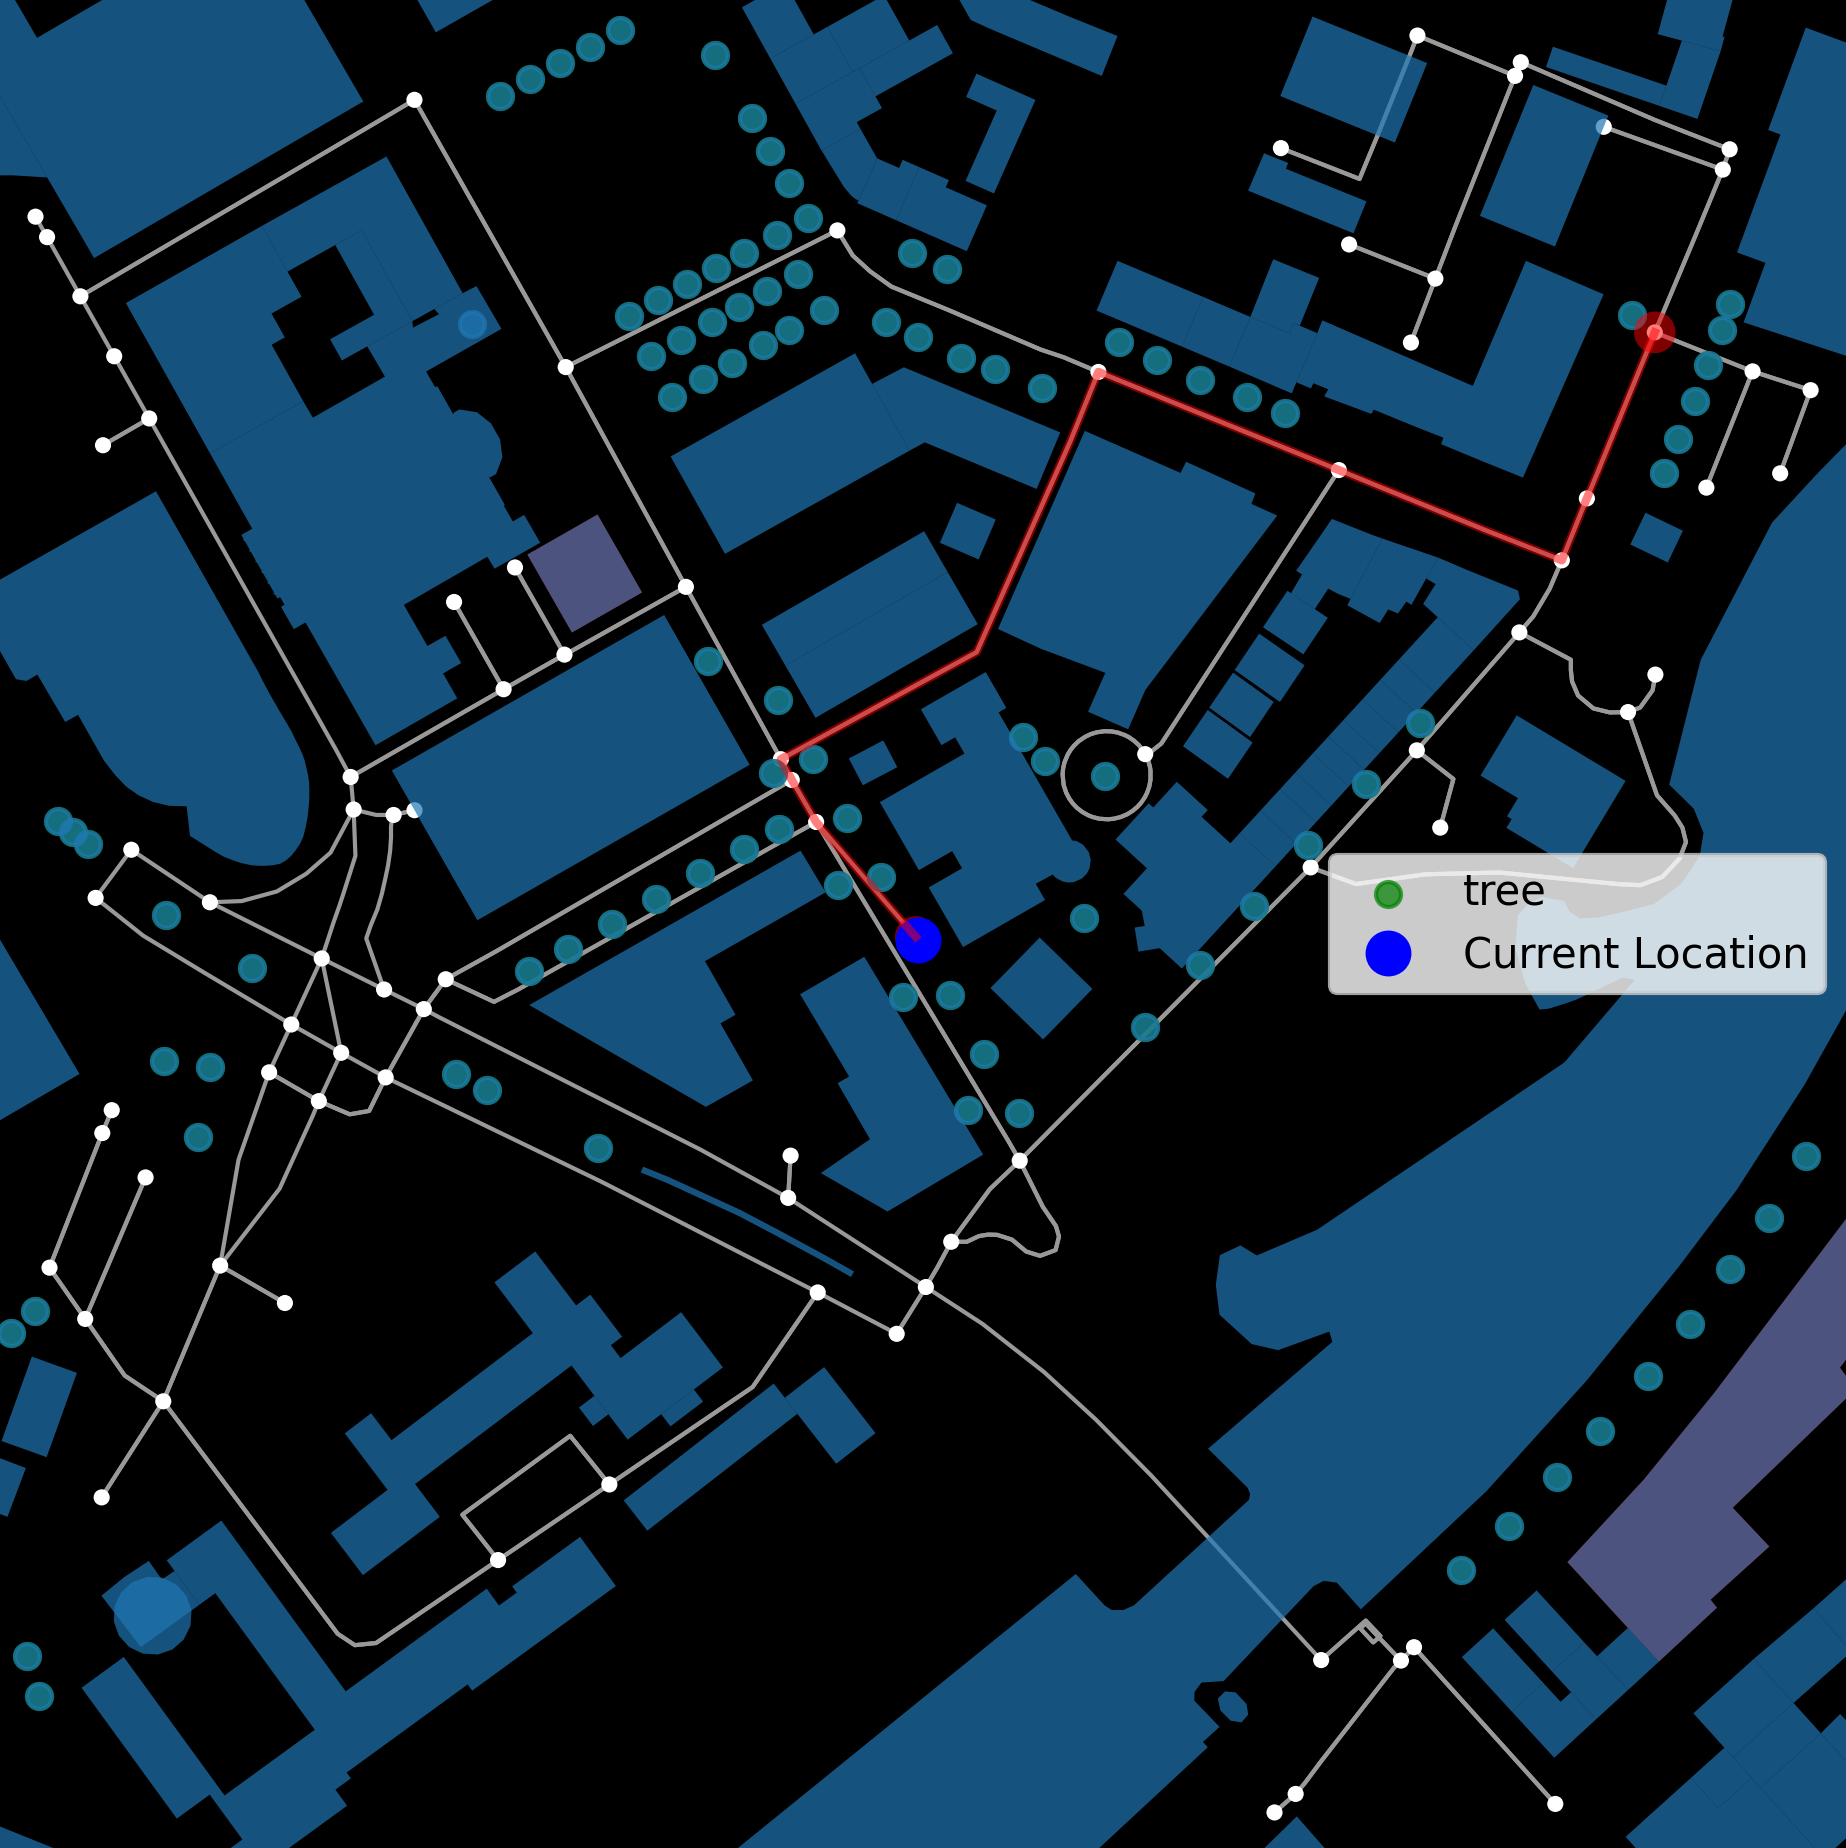
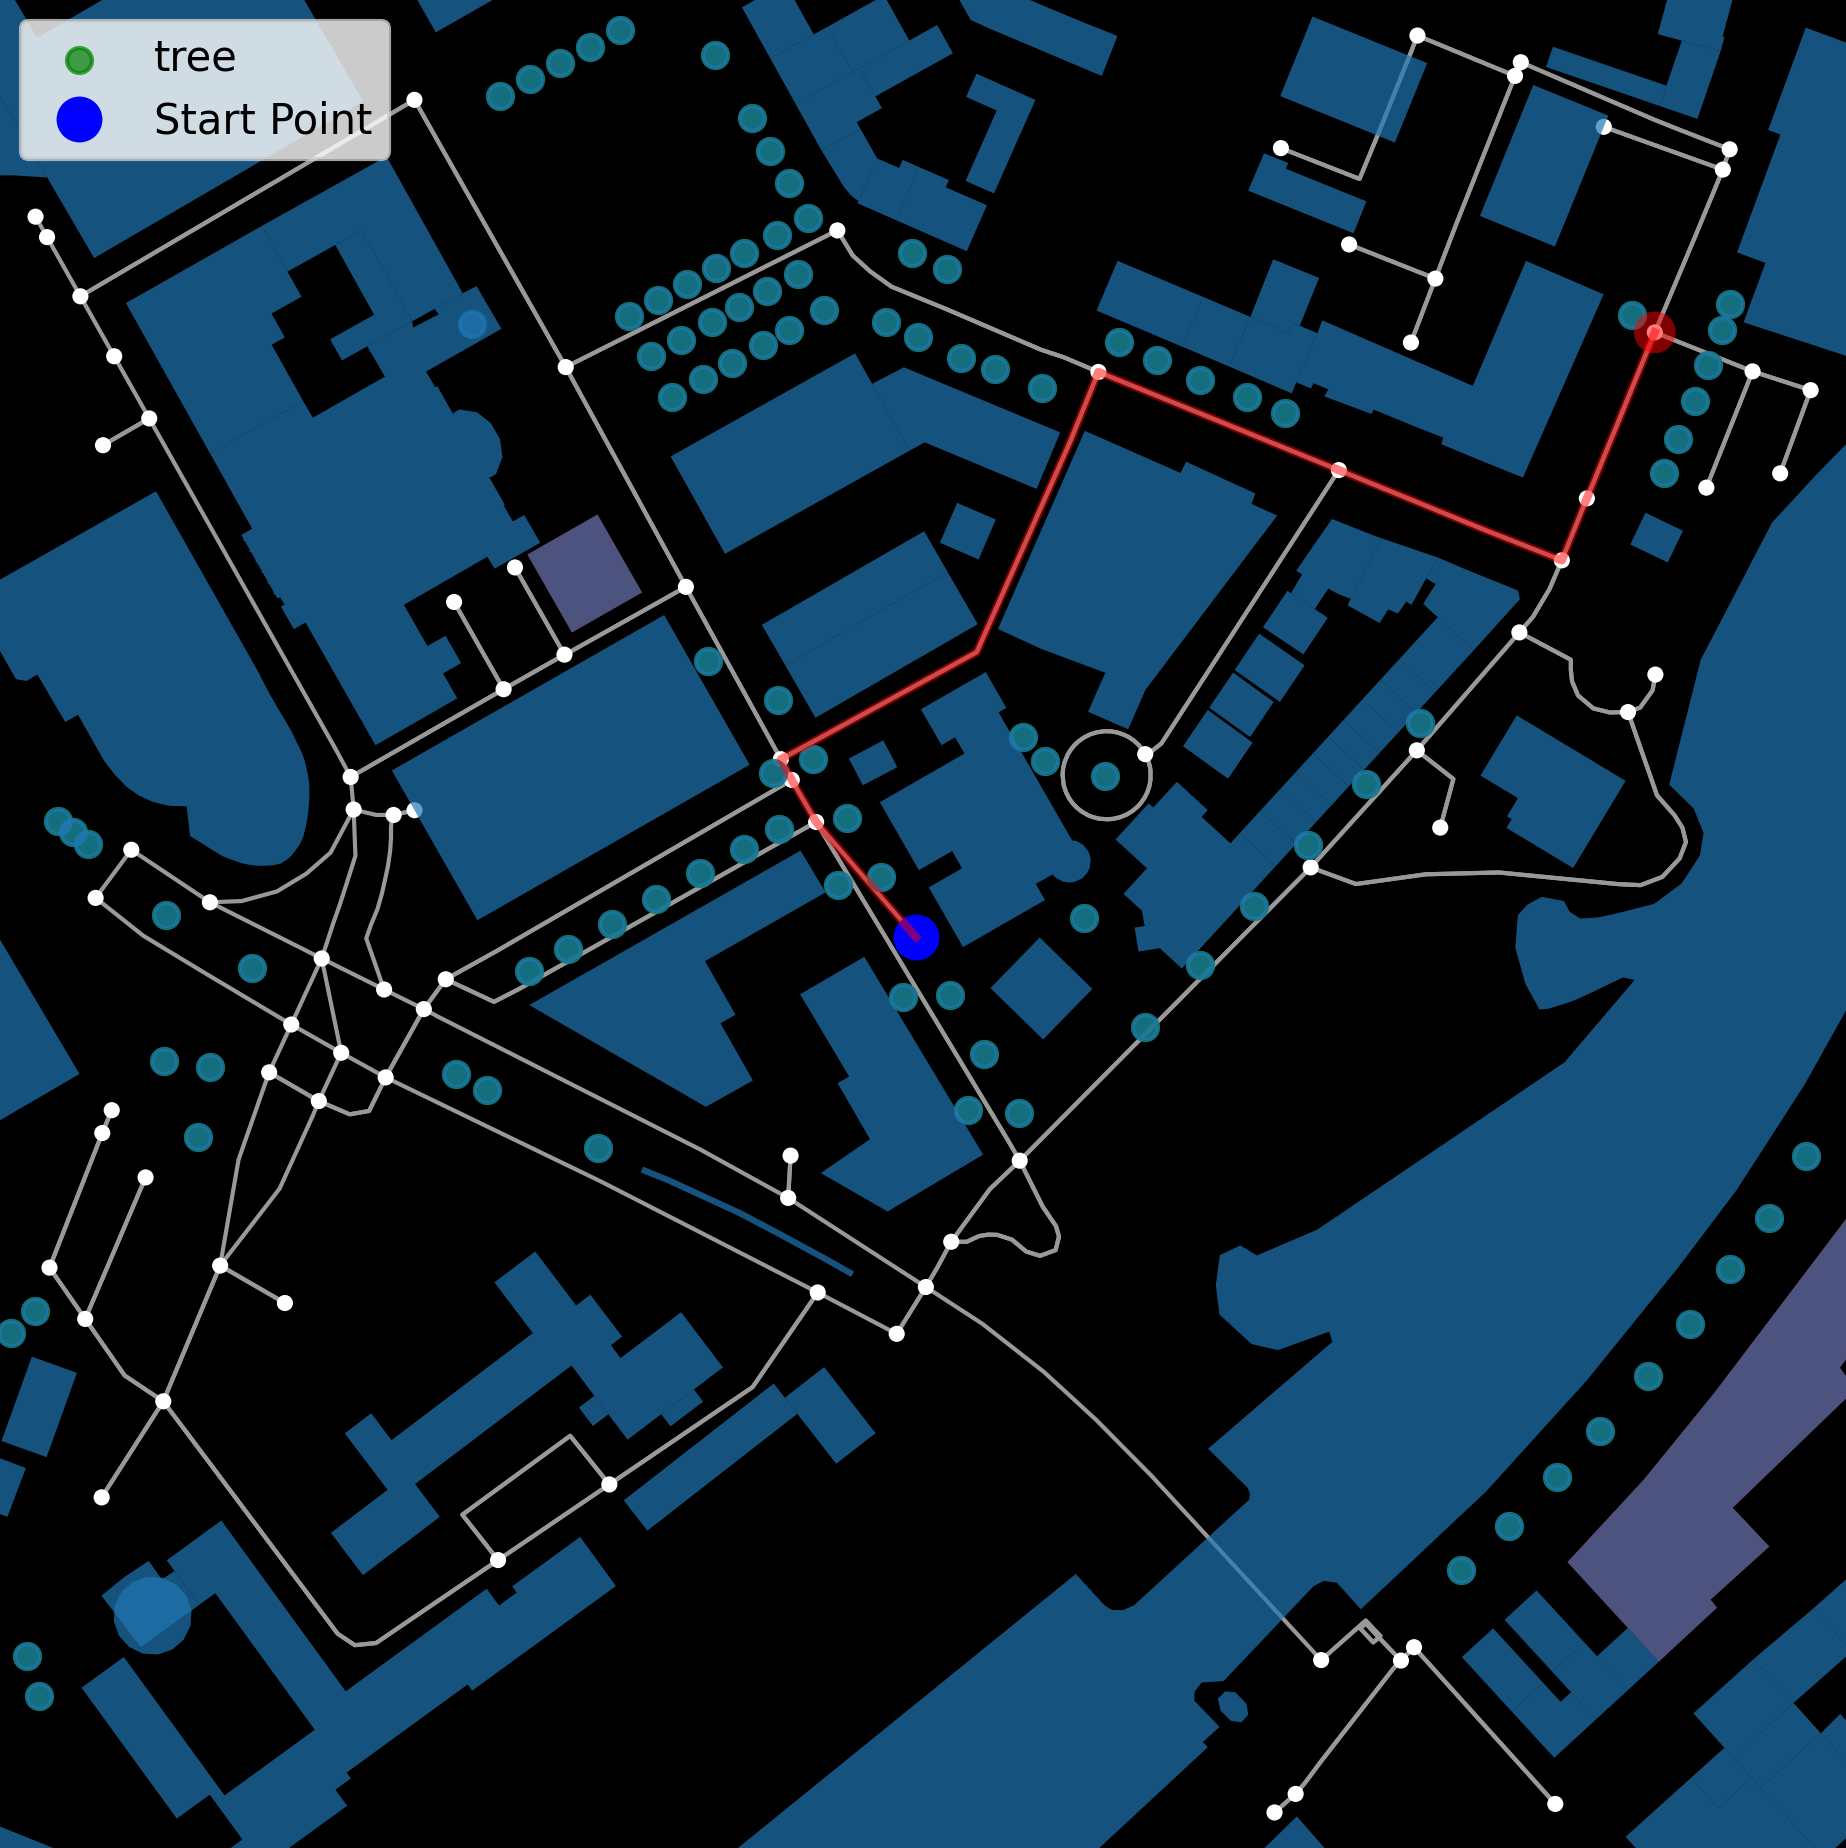
Update

Changed region(s): [[0.7102, 0.4627, 1.0, 0.5552], [0.0, 0.0, 0.2161, 0.0925]]

diff --git a/Layers/L1_App/navigation/create_map_network.py b/Layers/L1_App/navigation/create_map_network.py
@@ -242,13 +242,13 @@ class MapHandler():
         general_footprints = footprints[(footprints['tourism'].isnull()) & (footprints['natural'].isnull())]
         footprints.plot(ax=ax, alpha=0.7)
         # Highlight your location node
-        #your_location_node = self._graph.nodes[69]
-        #self.start_point, = ax.plot(your_location_node['x'], your_location_node['y'], 'bo', markersize=10, label='Start Point')
+        your_location_node = self._graph.nodes[69]
+        self.start_point, = ax.plot(your_location_node['x'], your_location_node['y'], 'bo', markersize=10, label='Start Point')
         #ax.scatter(your_location_node["x"], your_location_node["y"], c="cyan", s=50, zorder=5, label="Your Location")
         
         #plot gps location marker
-        self.lat, self.lon, self.height = self.gps.get_data()
-        self.current, = ax.plot(self.lon, self.lat, 'bo', markersize=10, label='Current Location')
+        #self.lat, self.lon, self.height = self.gps.get_data()
+        #self.current, = ax.plot(self.lon, self.lat, 'bo', markersize=10, label='Current Location')
         
         ax.legend()
         #ox.plot_graph_route(self._graph, self.find_shortest_path_between_two_points(), route_color='r', route_linewidth=2, ax=ax, save=True,filepath=f'{os.path.abspath(os.path.join(os.path.dirname(__file__),"../../"))}/L2_Data/map.png')
@@ -268,12 +268,13 @@ class MapHandler():
                                             ax=ax,save=True,filepath=path_png, node_size=0, show=False, close=False)
         
         # Animate the movement along the path
-        #self._animation = FuncAnimation(fig, self.manoeuvre.manoeuvre, frames=len(self.shortest_path)*2, interval=1500, repeat=True)
+        self._animation = FuncAnimation(fig, self.manoeuvre.manoeuvre, frames=len(self.shortest_path)*2, interval=1500, repeat=True)
         
         # Animate the current gps location
-        self._animation = FuncAnimation(fig, gps_update, frames=100, interval=200, repeat=False) 
+        #self._animation = FuncAnimation(fig, gps_update, frames=100, interval=200, repeat=False) 
         #self.manoeuvre.plot_route()
-        
+        #self.show_plot()
+        #self.save_animation()
         # Create and start the threads for saving the animation and showing the plot
         save_thread = threading.Thread(target=self.save_animation)
         show_thread = threading.Thread(target=self.show_plot)
@@ -329,7 +330,7 @@ class MapHandler():
         try:
             path_gif = f'{os.path.abspath(os.path.join(os.path.dirname(__file__),"../../../"))}/path_animation.gif'
             writer = PillowWriter(fps=30) 
-            self._animation.save(path_gif, writer=writer)
+            self._animation.save(path_gif, writer='pillow')
         except Exception as e:
             print(f"An error occurred: {e}")
             return None

diff --git a/Layers/L1_App/navigation/manoeuvre.py b/Layers/L1_App/navigation/manoeuvre.py
@@ -141,10 +141,11 @@ class Target_manoeuvre():
             x_current, y_current = self._graph.nodes[current_node]['x'], self._graph.nodes[current_node]['y']
             x_next, y_next = self._graph.nodes[next_node]['x'], self._graph.nodes[next_node]['y']
             
-            #target_position = self.get_target_position()
-            distance_to_target = round(self.distance(x_current, y_current, x_next, y_next))
-            print("Distance to target:", distance_to_target)
+            
             while True:
+                #target_position = self.get_target_position()
+                distance_to_target = round(self.distance(x_current, y_current, x_next, y_next))
+                print("Distance to target:", distance_to_target)
                 if distance_to_target <= 0.1:
                     print("Reached target position")
                     break
@@ -191,6 +192,7 @@ class Target_manoeuvre():
                     json.dump(data_JSON, write_file) """
                 self.start_point.set_data(x_current, y_current)
                 return self.start_point,
+    
     def manoeuvre_plot(self):
         # Initialize the PID controller parameters
         Kp = 0.5

diff --git a/my_location.py b/my_location.py
@@ -4,13 +4,13 @@ from Layers.L1_App.sensor.dgps.DGPS import connect_pksi_dgps
 from json.decoder import JSONDecodeError
 
 
-try:
+""" try:
     gps = connect_pksi_dgps()
     print(f'Getting Longitudenal and Latitude data: {gps.get_data()}')
     print(f'Logging Longitudenal and Latitude data: {gps.log()}')
 except KeyboardInterrupt:
     pass 
-
+ """
 
 config_path = f'{os.path.abspath(os.path.dirname(__file__))}/Layers/L2_Data/gps_data.json'
 
